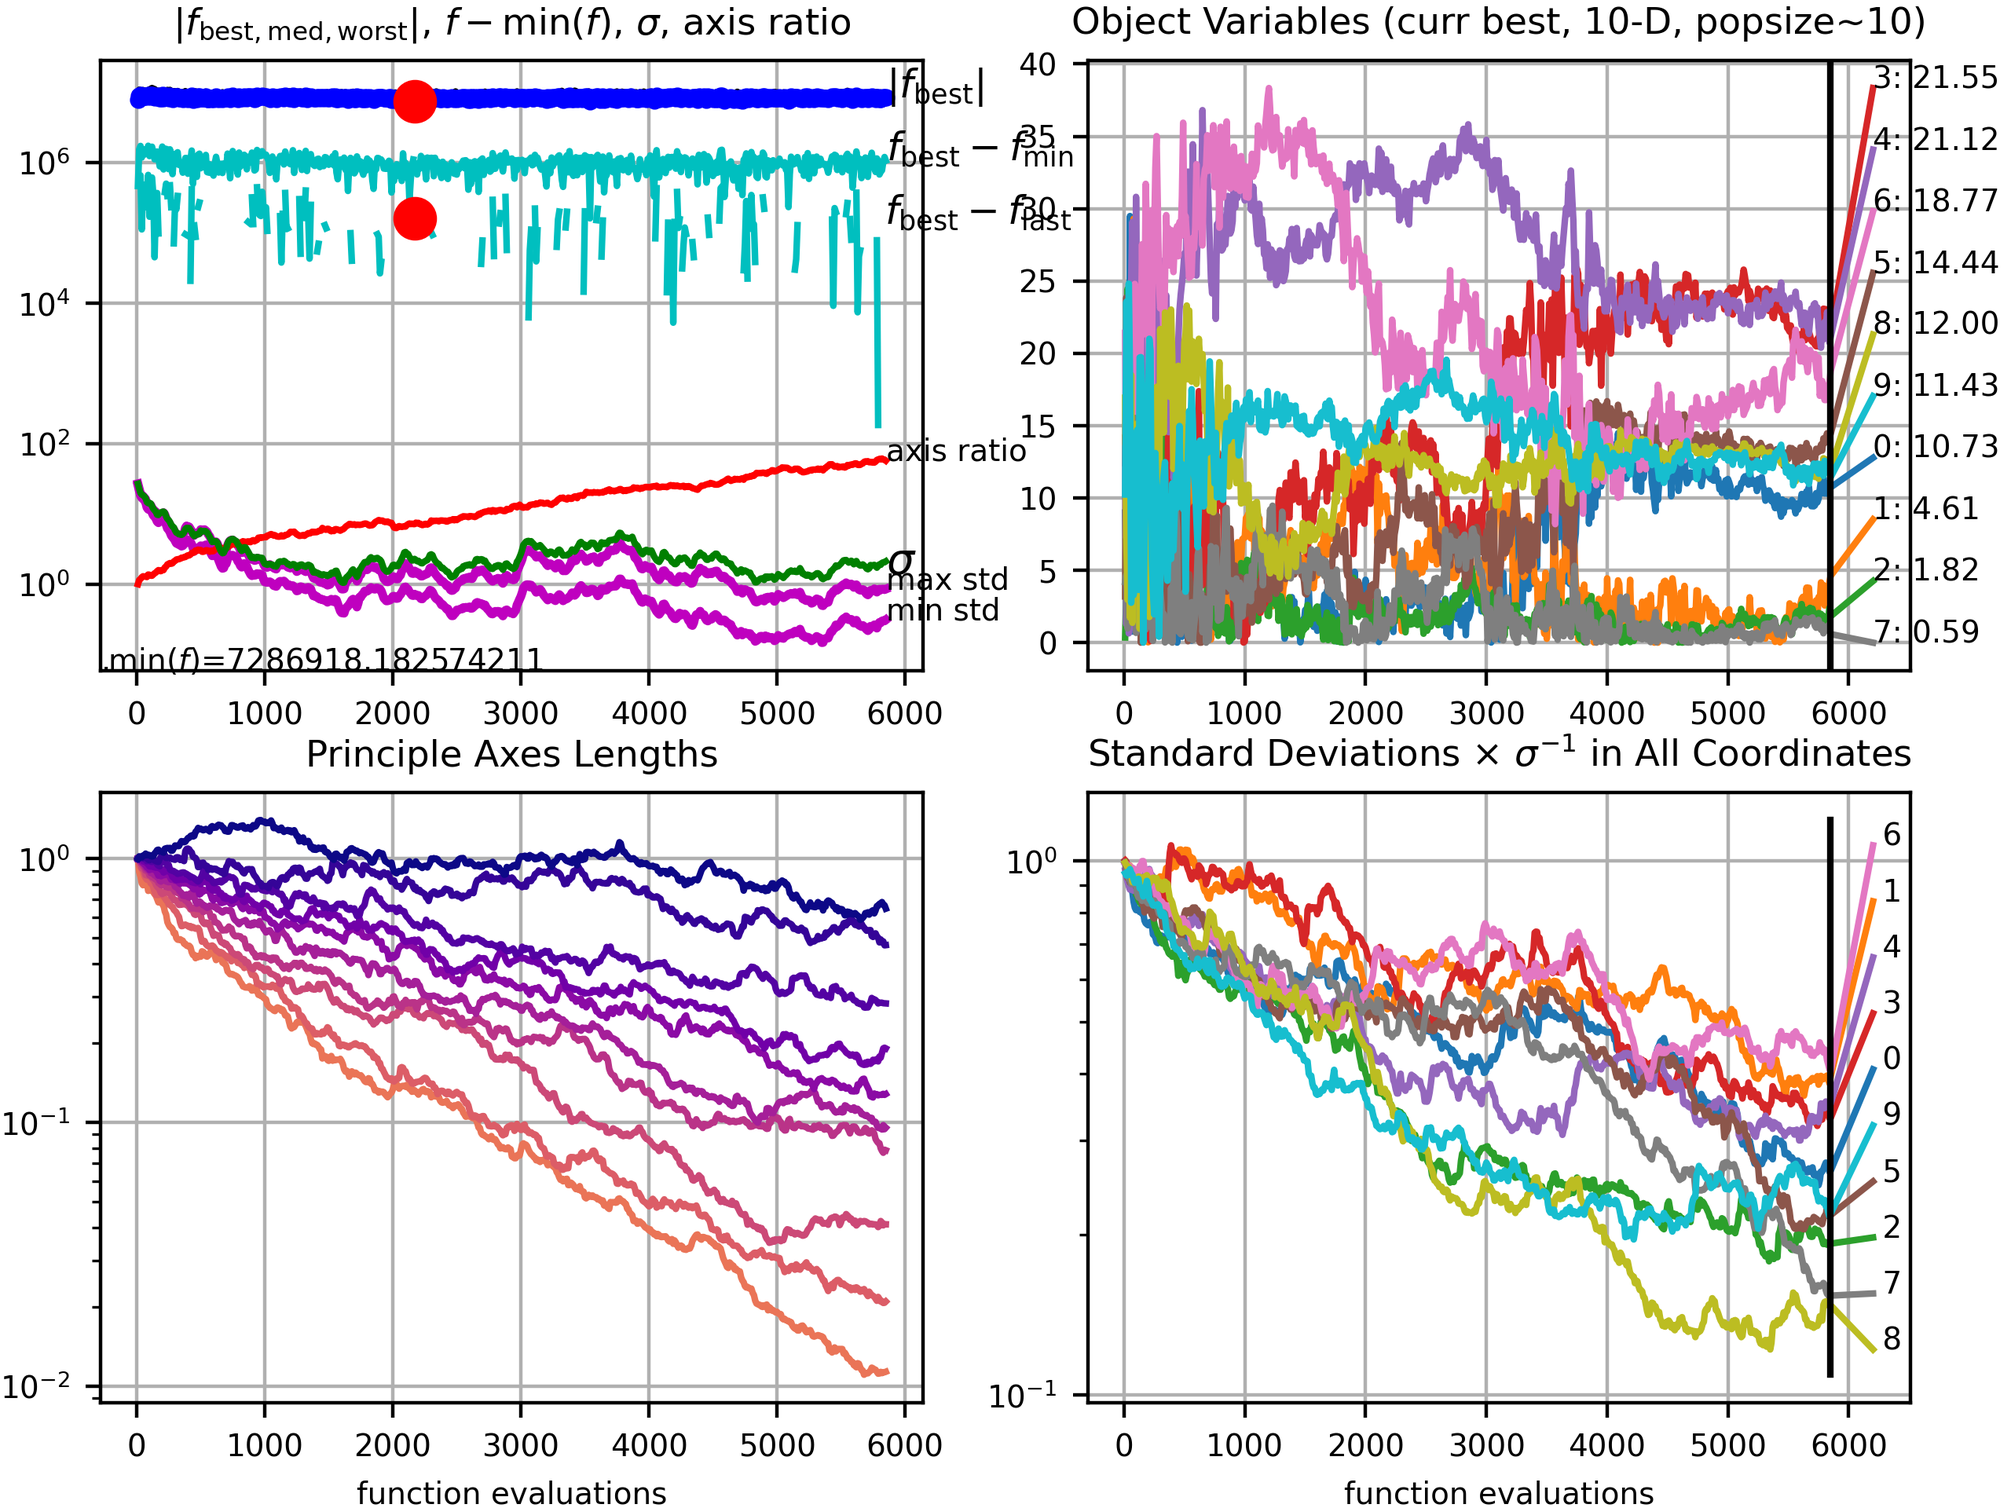
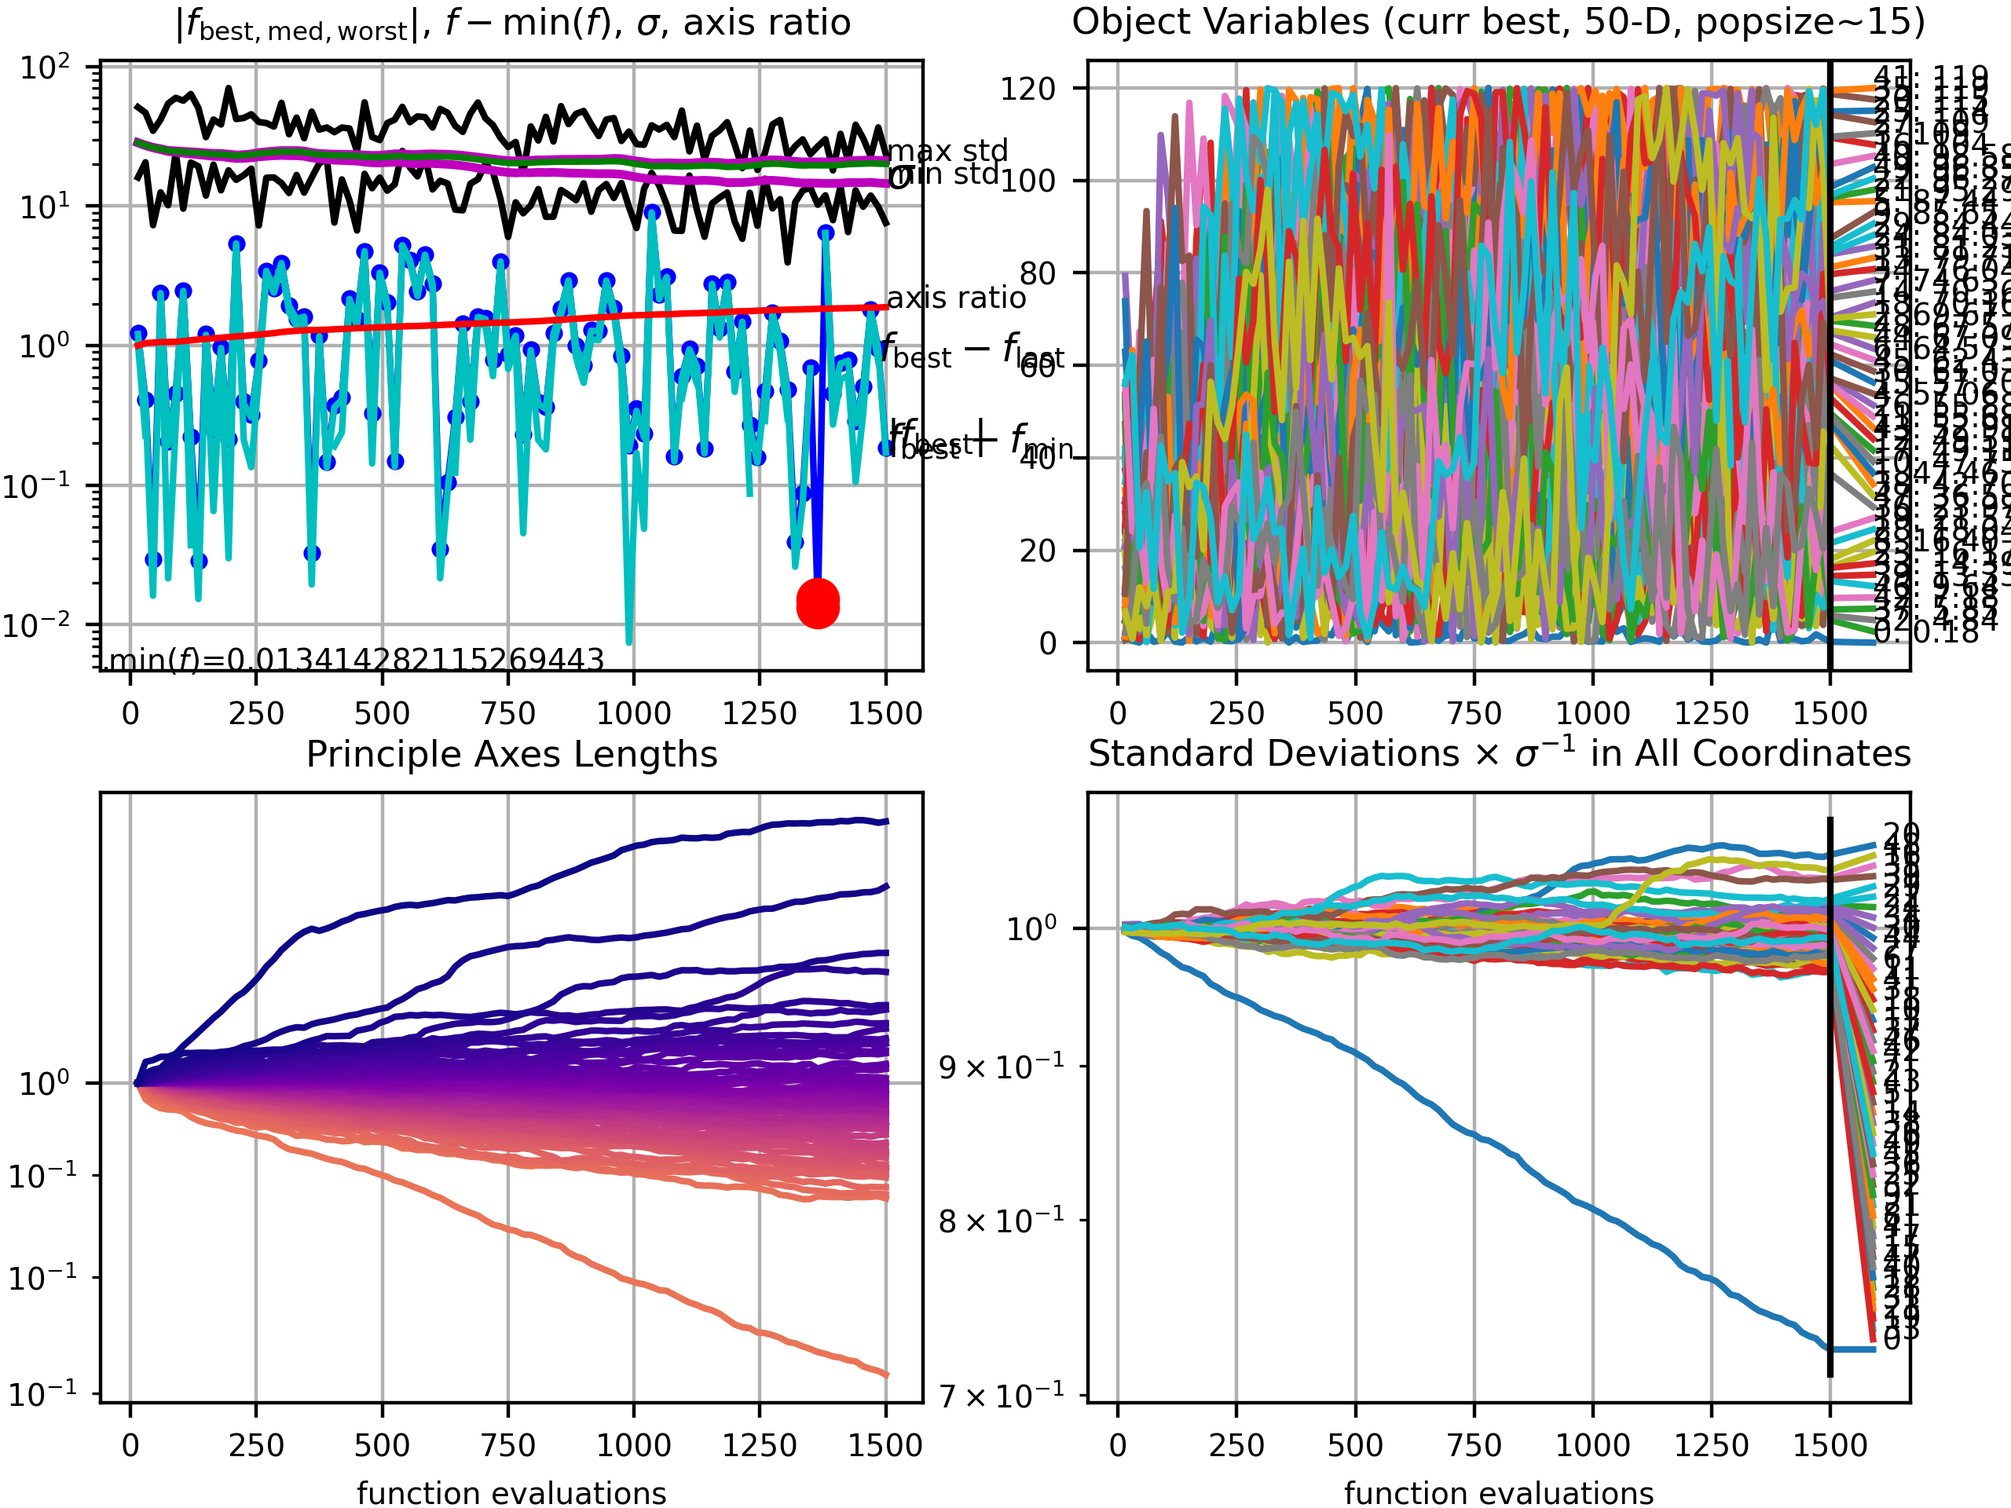
experiment parameters are now saved

diff --git a/src/bb_optimization.py b/src/bb_optimization.py
@@ -1,58 +1,84 @@
+import os.path
+
 from pyoptes import set_seed
 from pyoptes.optimization.budget_allocation import target_function as f
 
 from pyoptes.optimization.budget_allocation.blackbox_learning.bo_cma import bo_cma, cma_objective_function
 from pyoptes.optimization.budget_allocation.blackbox_learning.bo_alebo import bo_alebo
 from pyoptes.optimization.budget_allocation.blackbox_learning.bo_smac import bo_smac
-from pyoptes.optimization.budget_allocation.blackbox_learning.utils import choose_high_degree_nodes, baseline, map_low_dim_x_to_high_dim
 
-import numpy as np
+from pyoptes.optimization.budget_allocation.blackbox_learning.utils import choose_high_degree_nodes, baseline
+from pyoptes.optimization.budget_allocation.blackbox_learning.utils import map_low_dim_x_to_high_dim, test_function
+from pyoptes.optimization.budget_allocation.blackbox_learning.utils import save_parameters
+
+import json
+import inspect
 import argparse
+import numpy as np
+import networkx as nx
 
 
 if __name__ == '__main__':
     parser = argparse.ArgumentParser()
     parser.add_argument("optimizer", choices=['cma', 'alebo', 'smac'],
                         help="Choose the optimizer to run on the SI-model. Choose between CMA-ES and ALEBO")
-    parser.add_argument("--n_nodes", type=int, default=120, help="Defines the number of nodes used by the SI-model. "
-                                                                 "Default value is 120.")
-    parser.add_argument("--n_simulations", type=int, default=1000, help=" Sets the number of runs the for the "
-                                                                        "SI-model. Higher values of n_simulations lower"
-                                                                        "the variance of the output of the simulation. "
-                                                                        "Default value is 1000.")
-    parser.add_argument("--max_iterations", type=int, default=100, help="The maximum number of iterations CMA-ES runs.")
+    parser.add_argument("name_experiment", help="")
+    parser.add_argument('--path_plot', default='pyoptes/optimization/budget_allocation/blackbox_learning/plots/',
+                        help="location the results of the optimizers are saved to.")
+    parser.add_argument("--n_nodes", type=int, default=120,
+                        help="Defines the number of nodes used by the SI-model. Default value is 120.")
+    parser.add_argument("--n_simulations", type=int, default=1000,
+                        help=" Sets the number of runs the for the SI-model. Higher values of n_simulations lower "
+                             "the variance of the output of the simulation. Default value is 1000.")
+    parser.add_argument("--max_iterations", type=int, default=100,
+                        help="The maximum number of iterations the algorithms run.")
     # TODO rename size_subset to sentinels ?
-    parser.add_argument("--size_subset", type=int, default=10, help="Set the number of nodes that are used. Has to be"
-                                                                    "smaller than or equal to n_nodes")
-    parser.add_argument('--cma_sigma', type=float, default=0.2, help="")
-    parser.add_argument('--path_plot', default='pyoptes/optimization/budget_allocation/blackbox_learning/plots/test',
-                        help="location and name of the file a plot of the results of CMA-ES is saved to.")
+    parser.add_argument("--sentinels", type=int, default=10,
+                        help="Set the number of nodes that are used. Has to be smaller than or equal to n_nodes")
+    parser.add_argument('--cma_sigma', type=float, default=30,
+                        help="Defines the variance in objective function parameters from which new population is sampled")
     parser.add_argument('--solution_initialisation', choices=['uniform', 'random'], default='uniform',
                         help="")
+    # TODO rename to something more clear + clear up help
+    parser.add_argument('--graph', choices=['waxman', 'barabasi-albert'], default='barabasi-albert',
+                        help='Set the type of graph the ... . Either Waxman or Barabasi-Albert (ba) can be used')
     args = parser.parse_args()
 
-    # TODO add support for reading parameters from json-files
+    # TODO add support for reading parameters from json-files // or save parameters + results in a json
     # set some seed to get reproducible results:
     set_seed(1)
+
+    if args.graph == 'waxman':
+        # generate a Waxman graph:
+        waxman = nx.waxman_graph(120)
+        pos = dict(waxman.nodes.data('pos'))
+        # convert into a directed graph:
+        static_network = nx.DiGraph(nx.to_numpy_array(waxman))
+    elif args.graph == 'barabasi-albert':
+        static_network = None
+    else:
+        raise Exception(f'"{args.graph}" is an invalid choice for the graph.')
+
     # at the beginning, call prepare() once:
-    f.prepare(n_nodes=args.n_nodes, capacity_distribution=np.random.lognormal, p_infection_by_transmission=0.5)
+    f.prepare(n_nodes=args.n_nodes, capacity_distribution=np.random.lognormal,
+              p_infection_by_transmission=0.5, static_network=static_network, delta_t_symptoms=60)
 
     total_budget = 1.0 * args.n_nodes  # i.e., on average, nodes will do one test per year
 
     if args.solution_initialisation == 'random':
         # evaluate f once at a random input:
-        weights = np.random.rand(args.size_subset)
+        weights = np.random.rand(args.sentinels)
         shares = weights / weights.sum()
         x = shares * total_budget
     elif args.solution_initialisation == 'uniform':
         # distribute total budget uniformly
-        x = np.array([total_budget/args.size_subset for _ in range(args.size_subset)])
+        x = np.array([total_budget/args.sentinels for _ in range(args.sentinels)])
     # TODO exponential distribution ?
     else:
         raise Exception('Invalid solution initialisation chosen.')
 
     # reduce the dimension of the input space
-    node_indices = choose_high_degree_nodes(f.network.degree, args.size_subset)
+    node_indices = choose_high_degree_nodes(f.network.degree, args.sentinels)
 
     # get the first constraint, the boundaries of x_i
     bounds = [0, total_budget]
@@ -61,14 +87,27 @@ if __name__ == '__main__':
     # the mean of the squared ys is taken to emphasise the tail of the distribution of y
     statistic = lambda x: np.mean(x**2)
 
-    # print('transmission array', f.model.transmissions_array)
-
-    # print('capacities per node: ', f.capacities)
-
+    # compute the baseline value for y
     baseline = baseline(x, eval_function=f.evaluate, n_nodes=args.n_nodes, node_indices=node_indices, statistic=statistic)
 
-    # TODO log the beste and baseline results somewhere
+    # save SI-model parameters as .json-file
+    experiment_params = {'model': {'node_initialisation': args.solution_initialisation,
+                                   'total_budget': total_budget,
+                                   'n_nodes': args.n_nodes,
+                                   'graph': args.graph,
+                                   'sentinels': args.sentinels,
+                                   'n_simulations': args.n_simulations,
+                                   'max_iterations': args.max_iterations,
+                                   'statistic': inspect.getsourcelines(statistic)[0][0][23:-1],
+                                   },
+                         'optimizer': {}}
+
+    # # TODO log the beste and baseline results somewhere
     if args.optimizer == 'cma':
+        experiment_params['optimizer']['cma_sigma'] = args.cma_sigma
+        path_experiment = os.path.join(args.path_plot, args.name_experiment)
+        save_parameters(experiment_params, path_experiment)
+
         solutions = bo_cma(objective_function=cma_objective_function,
                            initial_population=x,
                            node_indices=node_indices,
@@ -78,12 +117,12 @@ if __name__ == '__main__':
                            statistic=statistic,
                            total_budget=total_budget,
                            bounds=bounds,
-                           path_plot=args.path_plot,
+                           path_experiment=path_experiment,
                            max_iterations=args.max_iterations,
                            sigma=args.cma_sigma)
-        print(f'Parameters:\nSentinel nodes: {args.size_subset}\nn_nodes: {args.n_nodes}\nn_simulations: {args.n_simulations}')
+        print(f'Parameters:\nSentinel nodes: {args.sentinels}\nn_nodes: {args.n_nodes}\nn_simulations: {args.n_simulations}')
         print(f'Baseline for {args.solution_initialisation} budget distribution: {baseline[str(args.n_simulations)]}')
-        print(f'\nBest CMA-ES solutions, descending ')
+        print(f'\nBest CMA-ES solutions:')
 
         for s in solutions:
             print(f'x sum: {s.sum()} || Objective value: ', cma_objective_function(s,
@@ -93,8 +132,8 @@ if __name__ == '__main__':
                                                                                    n_simulations=args.n_simulations,
                                                                                    statistic=statistic,
                                                                                    total_budget=total_budget),
-                  f'\n\tmin, max: {s.min()}, {s.max()}',
-                  f'\n\t{s}')
+                  f'\n\tmin, max: {s.min()}, {s.max()}')#,
+                  # f'\n\t{s}')
     elif args.optimizer == 'alebo':
         best_parameters, values, experiment, model = bo_alebo(n_nodes=args.n_nodes,
                                                               total_trials=args.max_iterations,
@@ -105,7 +144,8 @@ if __name__ == '__main__':
                                                               total_budget=total_budget,
                                                               path_plot=args.path_plot)
 
-        print(f'Parameters:\nSentinel nodes: {args.size_subset}\nn_nodes: {args.n_nodes}\nn_simulations: {args.n_simulations}')
+        print(f'Parameters:\nSentinel nodes: {args.sentinels}\nn_nodes: {args.n_nodes}\n'
+              f'n_simulations: {args.n_simulations}\nNetwork type: {args.graph}')
         print(f'Baseline for {args.solution_initialisation} budget distribution: {baseline[str(args.n_simulations)]}')
         best_parameters = np.array(list(best_parameters.values()))
         print('min, max, sum: ', best_parameters.min(), best_parameters.max(), best_parameters.sum())
@@ -121,7 +161,7 @@ if __name__ == '__main__':
                                   total_budget=total_budget,
                                   max_iterations=args.max_iterations)
 
-        print(f'Parameters:\nSentinel nodes: {args.size_subset}\nn_nodes: {args.n_nodes}\nn_simulations: {args.n_simulations}')
+        print(f'Parameters:\nSentinel nodes: {args.sentinels}\nn_nodes: {args.n_nodes}\nn_simulations: {args.n_simulations}')
         print(f'Baseline for {args.solution_initialisation} budget distribution: {baseline[str(args.n_simulations)]}')
 
         best_parameters = np.array(list(best_parameters.values()))

diff --git a/src/pyoptes/optimization/budget_allocation/blackbox_learning/bo_smac.py b/src/pyoptes/optimization/budget_allocation/blackbox_learning/bo_smac.py
@@ -75,5 +75,37 @@ def bo_smac(initial_population, max_iterations, n_simulations, node_indices, n_n
     return smac.optimize()
 
 
+# TODO maybe enforce correct types of params ? To prevent floats where ints are expected
+def smac_objective_function(x, n_simulations, node_indices, n_nodes, eval_function, statistic, total_budget):
+    """
+    An optimizeable objective function.
+    Maps a lower dimensional x to their corresponding indices in the input vector of the given objective function.
+    The input vector x_true is zero at every index except at the indices of x.
+
+    The sum of all values of x_true (or x) is checked to be smaller or equal to the total budget.
+    If this constraint is violated the function return 1e10, otherwise the output of the eva function
+    (the evaluate function of the SI-model) for n_simulations is returned.
+
+    @param total_budget: float,
+    @param statistic: function object,
+    @param x: numpy array,
+    @param eval_function: function object,
+    @param n_simulations: int, number of times the objective function will run a simulation for averaging the output
+    @param node_indices: list, indices of x in the higher dimensional x
+    @param n_nodes: int, dimension of the input of the objective function
+    @return: float, objective function value at x
+    """
+    assert np.shape(x) == np.shape(node_indices)
+    # create a dummy vector to be filled with the values of x at the appropriate indices
+    x_true = np.zeros(n_nodes)
+    for i, xi in zip(node_indices, x):
+        x_true[i] = xi
+    if 0 < x_true.sum() <= total_budget:
+        return eval_function(x_true, n_simulations=n_simulations, statistic=statistic)
+    else:
+        # TODO change to numpy.NaN. CMA-ES handles that as explicit rejection of x
+        return np.NaN#1e10     # * x.sum(x)
+
+
 if __name__ == "__main__":
     print('success')

diff --git a/src/pyoptes/optimization/budget_allocation/blackbox_learning/bo_cma.py b/src/pyoptes/optimization/budget_allocation/blackbox_learning/bo_cma.py
@@ -7,12 +7,12 @@ import numpy as np
 # TODO complete documentation for parameters
 # TODO sigma should be about 1/4th of the search space width e.g sigma 30 for budget 120
 def bo_cma(objective_function, initial_population, max_iterations, n_simulations, node_indices, n_nodes, eval_function,
-           bounds, path_plot, statistic, total_budget, sigma=0.4):
+           bounds, path_experiment, statistic, total_budget, sigma=0.4):
     """
     Runs CMA-ES on the objective function, finding the inputs x for which the output y is minimal.
     @param total_budget: float, the total budget that is to be distributed along the nodes of the graph
     @param statistic: function object,
-    @param path_plot: string,
+    @param path_experiment: string,
     @param objective_function: function object,
     @param eval_function: function object,
     @param bounds: list,
@@ -33,9 +33,10 @@ def bo_cma(objective_function, initial_population, max_iterations, n_simulations
     # TODO change x-axis in plot to iterations instead of function evals
     ea[-1].plot()
     cma.s.figsave = matplotlib.pyplot.savefig
-    cma.s.figsave(os.path.join(path_plot), dpi=400)
+    path_plot = os.path.join(path_experiment, 'cma_plot.png')
+    cma.s.figsave(path_plot, dpi=400)
 
-    return [ea[0]]#solutions    # contains the best solution found during the whole run
+    return [ea[0]] #solutions    # contains the best solution found during the whole run
 
 
 # TODO maybe enforce correct types of params ? To prevent floats where ints are expected

diff --git a/src/pyoptes/optimization/budget_allocation/blackbox_learning/utils.py b/src/pyoptes/optimization/budget_allocation/blackbox_learning/utils.py
@@ -1,5 +1,50 @@
+import os
+import json
 import numpy as np
 import matplotlib.pyplot
+
+
+def test_function(x, n_simulations, node_indices, n_nodes, eval_function, statistic, total_budget):
+    """
+
+    @param x:
+    @return:
+    """
+    return x[0]**2
+
+
+def save_results(model_return, model_steps, model_hits, base_path):
+    """
+    Saves the results for a training run of a model,
+    Results are saved as numpy files.
+    Args:
+
+        model_return: list,
+        model_steps: list
+        model_hits: list
+        base_path: string, base path where the results are saved to
+    """
+    if not os.path.isdir(base_path):
+        os.makedirs(base_path)
+
+    np.save(os.path.join(base_path, 'model_steps'), model_steps)
+
+
+def save_parameters(parameters, base_path):
+    """
+    Saves the parameters for a training run of a model,
+    Parameters are saved as a json file.
+    Args:
+        parameters: dict,
+        base_path: string, base path where the results are saved to
+    """
+    if not os.path.isdir(base_path):
+        os.makedirs(base_path)
+
+    json_path = os.path.join(base_path, 'experiment_parameters.json')
+
+    with open(json_path, 'w') as fp:
+        json.dump(parameters, fp, sort_keys=True, indent=4)
 
 
 def choose_high_degree_nodes(node_degrees, n):
